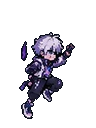
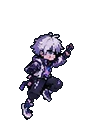
Kai camina (correr se desbloquea después), salto sin el brillo morado y muerte acostado
- Player: can_run (falso al principio) y walk_speed (130 px/s: los niveles están pensados para
  esa velocidad); move_speed() elige caminar o correr.
- KaiVisual: animación "caminar" (las dos poses de perfil de la hoja, 5 cuadros/s, rebote de paso)
  mientras no puede correr.
- extraer_personajes_concepto: "caminar"; "saltar" sin el brillo morado (only_body); "muerte" con
  Kai acostado (pose de reposo girada 90°, opción rotate).
- test_player_movement y test_zone0: camina a walk_speed con "caminar"; con can_run corre.

diff --git a/docs/arquitectura.md b/docs/arquitectura.md
@@ -120,7 +120,8 @@ Señales: `jumped`, `double_jumped`, `wall_jumped`, `dashed`, `landed`.
 
 | Parámetro | Valor | Efecto |
 |---|---|---|
-| `max_speed` | 140 px/s | Velocidad máxima horizontal |
+| `max_speed` | 140 px/s | Velocidad al correr (y la del dash) |
+| `walk_speed` | 130 px/s | Velocidad al caminar: al principio Kai solo camina (`can_run = false`); correr se desbloquea más adelante. Los niveles están pensados para unos 130 (con menos, algunos huecos y plataformas no se alcanzan) |
 | `jump_height` | 72 px (4,5 tiles) | Altura máxima del salto: alcanza plataformas de 4 tiles |
 | `time_to_apex` | 0,4 s | Tiempo hasta el punto más alto (define la gravedad) |
 | `fall_gravity_multiplier` | 2,0 | Caída más rápida y firme que la subida |
@@ -158,6 +159,7 @@ Las muestras de estilo usan este Kai si `_build_player_visual()` devuelve null (
 Con cuadros, `attack()` encadena `ataque_1` → `ataque_2` si se ataca dos veces seguidas, `PlayerDamage.hurt` muestra
 `dano` y `died` muestra `muerte`; al correr hay un rebote suave. `current_animation()` devuelve la animación visible
 (la usan las pruebas). La hoja tiene un cuadro por pose: para más fluidez, cada animación necesita más cuadros.
+Mientras `Player.can_run` es falso, al desplazarse usa `caminar` (las dos poses de perfil de la hoja a 5 cuadros/s, con un rebote de paso de 1 px) en vez de `correr`. En el aire usa la pose de salto (sin el brillo morado de la hoja); `caer`, que en la hoja está agachada, solo dura un instante al aterrizar. `muerte` es Kai acostado boca arriba: la pose de reposo girada 90° (en la hoja, la muerte parecía dos personajes).
 Las medidas de las piezas están en `kai_piezas.gd`; `generar_esqueleto_kai.gd` regenera la escena (borra retoques manuales).
 
 ## Combate (`components/combat/`)
